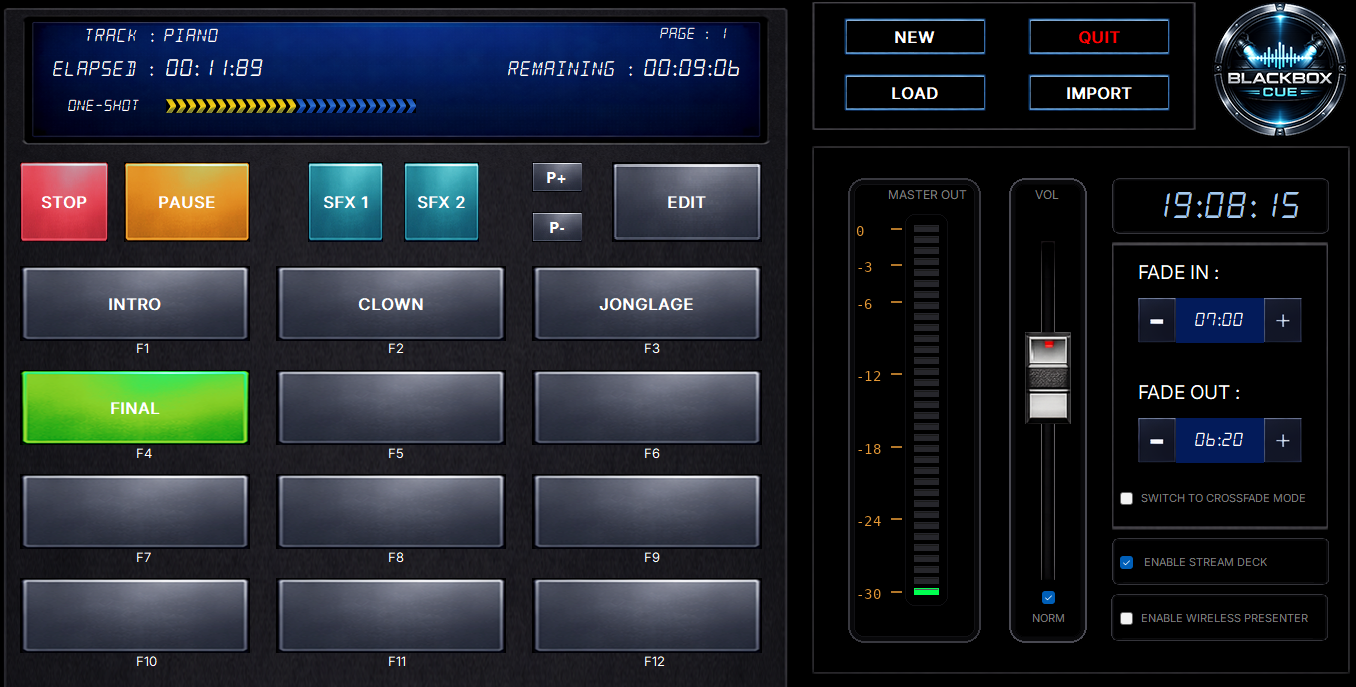
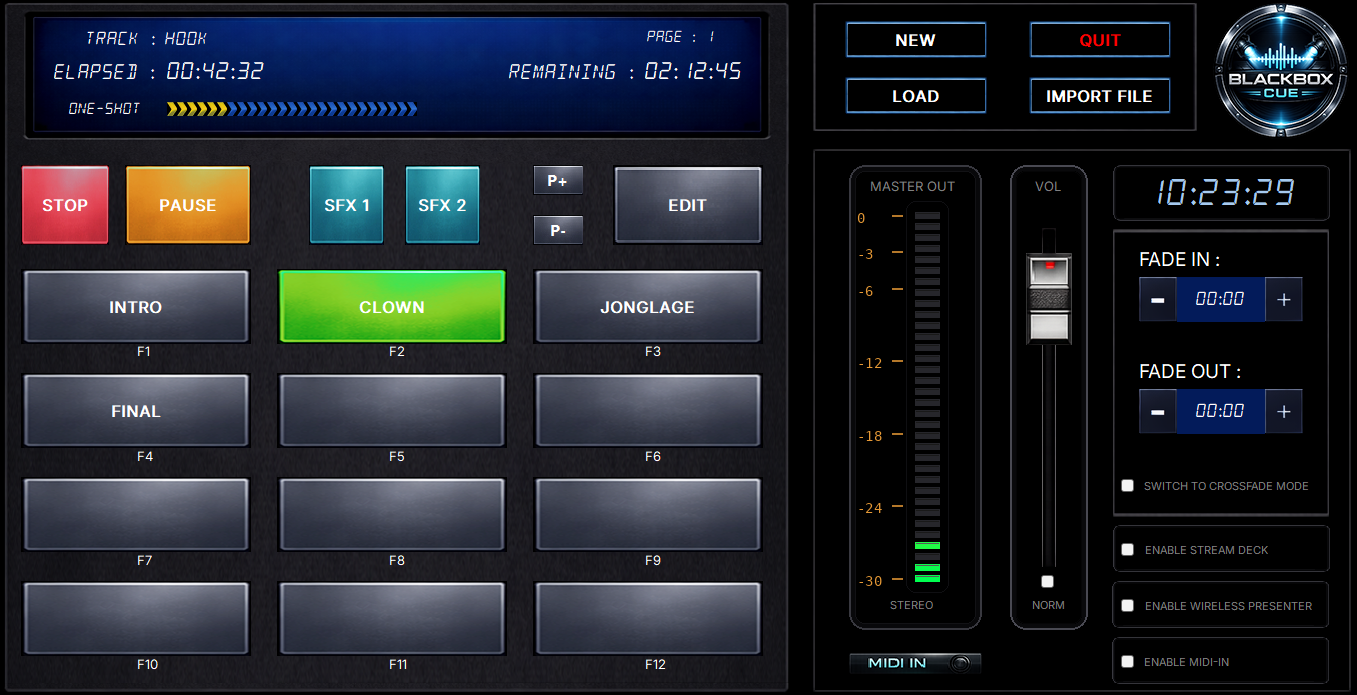
Updated docs

diff --git a/LISEZMOI.md b/LISEZMOI.md
@@ -30,9 +30,9 @@ BlackBox Cue vous donne les outils essentiels pour la diffusion live, sans la lo
 - **Temps restant** : toujours visible pendant la lecture, pour savoir précisément combien de temps il reste avant la prochaine cue.
 - **Fade-in et fade-out par piste** : durée réglable de 0 à 10 secondes pour des transitions en douceur.
 - **Comportement de fin par piste** : one-shot, boucle ou enchaînement vers le pad suivant -- configuré une fois, fiable à chaque représentation.
-- **Crossfade equal-power** entre les pistes pour des transitions fluides. En mode AUTO, le crossfade analyse votre musique et trouve automatiquement le meilleur moment pour enchaîner, en s'adaptant au tempo et à la structure de chaque morceau.
+- **Crossfade equal-power** entre les pistes pour des transitions fluides. En mode AUTO, le crossfade analyse votre musique et trouve automatiquement le meilleur moment pour enchaîner, en s'adaptant au tempo, à la tonalité et à la structure de chaque morceau.
 - **Sélection de la sortie audio** : choisissez quel périphérique audio utiliser, directement depuis l'interface principale.
-- **Préécoute** en mode édition : écoutez les premières secondes d'un morceau avant de le diffuser en live.
+- **Préécoute** en mode édition : écoutez les premières secondes d'un morceau sur une sortie audio séparée avant de le diffuser en live. Nécessite un ordinateur disposant d'au moins deux sorties audio indépendantes.
 - **Normalisation du volume** : équilibre automatiquement toutes vos pistes à un volume perçu homogène, même quand les fichiers proviennent de sources différentes.
 - **Forme d'onde** en mode édition : visualisez précisément où commence et se termine votre audio, et où se situent les points de trim.
 
@@ -87,17 +87,22 @@ Pour sauvegarder ou transférer un projet vers un autre ordinateur, il suffit de
 
 ## Importer des fichiers audio
 
-BlackBox Cue prend en charge les fichiers audio **WAV**, **MP3** et **AIFF**.
-
-Les fichiers AIFF sont automatiquement convertis au format WAV lors de l'importation.
+BlackBox Cue prend en charge de nombreux formats audio : **WAV**, **MP3**, **OGG**, **FLAC**, **AAC/M4A**, **MP4**, **AIFF**, **ALAC**, **WMA**, **Opus**, **CAF**, **AC-3**, **WavPack**, **MKA** (Matroska Audio), **AU** et **SND**.
 
 ### Importer un fichier
 
 1. Cliquez sur le bouton **Import**
 2. Sélectionnez un fichier audio sur votre ordinateur
 3. Donnez-lui un nom (ou conservez l'original)
-4. Pour les fichiers WAV et MP3, le fichier est copié dans le dossier `imports` de votre projet. La copie est sécurisée : l'intégrité du fichier de destination est vérifiée par rapport au fichier source pour garantir qu'aucune donnée n'a été perdue ou corrompue
-5. Pour les fichiers AIFF, le fichier est converti au format WAV et enregistré dans le dossier `imports` de votre projet
+4. Le fichier est copié dans le dossier `imports` de votre projet. La copie est sécurisée : l'intégrité du fichier de destination est vérifiée par rapport au fichier source pour garantir qu'aucune donnée n'a été perdue ou corrompue
+
+### Importer un dossier
+
+Faites un **clic droit** sur le bouton **Import** pour le basculer en mode **IMPORT DIR**. Dans ce mode, un clic sur le bouton permet de sélectionner un dossier entier au lieu d'un seul fichier. Tous les fichiers audio du dossier sélectionné (y compris les sous-dossiers) sont importés d'un coup.
+
+Un **préfixe** vous sera demandé. Chaque fichier importé sera nommé `PREFIXE-nomoriginal` dans votre projet. Cela permet d'organiser et d'identifier facilement les fichiers par source ou catégorie.
+
+Faites à nouveau un clic droit sur le bouton Import pour revenir en mode fichier unique (**IMPORT FILE**).
 
 ### Auto-Assign (importation en masse)
 
@@ -136,7 +141,7 @@ Cliquez simplement sur un pad pour le lancer. Le pad s'allume en vert pendant la
 
 ## Mode édition
 
-Pour configurer un pad, passez en **Mode édition** en cliquant sur le bouton **Edit**.
+Pour configurer un pad, passez en **Mode édition** en cliquant sur le bouton **Edit**. Le bouton Edit clignote tant que le mode édition est actif, comme rappel visuel.
 
 En mode édition, cliquer sur un pad le sélectionne pour l'édition (il s'allume en jaune). Vous pouvez alors :
 
@@ -210,13 +215,7 @@ Activez la case **Crossfade** pour enchaîner les pistes en douceur. Quand vous 
 
 #### Crossfade AUTO
 
-En mode Continue, vous pouvez régler la durée du crossfade sur **AUTO**. BlackBox Cue analyse alors chaque morceau lors de l'importation et détermine automatiquement le meilleur moment et la meilleure durée pour le crossfade :
-
-- Si le morceau comporte un **fade-out** (la musique s'éteint progressivement), le crossfade démarre au début de ce fade-out et sa durée correspond à la longueur réelle du fade
-- Si le morceau a une **fin calme** (un outro ou un passage plus doux), le crossfade démarre quand l'énergie baisse
-- Si aucun fade-out ni chute d'énergie n'est détecté, la durée du crossfade **s'adapte au tempo** : les morceaux rapides ont des crossfades plus courts, les morceaux lents des crossfades plus longs
-- Le démarrage du crossfade est **calé sur les mesures musicales**, pour que les transitions tombent sur des temps forts plutôt qu'à des moments arbitraires
-- Quand deux morceaux consécutifs ont un **tempo proche**, BlackBox Cue ajuste légèrement la vitesse du morceau entrant pour synchroniser les beats pendant la transition
+En mode Continue, vous pouvez régler la durée du crossfade sur **AUTO**. BlackBox Cue analyse alors chaque morceau lors de l'importation et détermine automatiquement le meilleur moment et la meilleure durée pour le crossfade.
 
 Vous n'avez pas besoin de régler manuellement la durée du crossfade — le logiciel s'en charge pour vous, en produisant des transitions naturelles et musicalement cohérentes entre des morceaux de styles et de tempos différents.
 
@@ -304,6 +303,42 @@ BlackBox Cue propose des raccourcis clavier pour un contrôle rapide de la lectu
 | Page Down | Page suivante |
 
 Ces raccourcis sont désactivés lors de la saisie dans un champ texte ou quand une boîte de dialogue est ouverte.
+
+---
+
+## Contrôle MIDI
+
+BlackBox Cue peut être piloté par n'importe quel contrôleur MIDI (clavier, contrôleur à pads, etc.).
+
+### Activer le MIDI
+
+1. Cochez la case **MIDI** dans l'interface principale
+2. Une fenêtre apparaît avec la liste des interfaces MIDI disponibles -- sélectionnez la vôtre
+3. Choisissez un **canal MIDI** (Omni pour écouter tous les canaux, ou un canal spécifique de 1 à 16)
+4. Cliquez sur **SELECT** pour activer le contrôle MIDI
+
+Décochez la case **MIDI** pour désactiver le contrôle MIDI.
+
+Un petit indicateur clignote à côté de la case à chaque réception d'un message MIDI sur le canal sélectionné.
+
+### Messages MIDI pris en charge
+
+| Message MIDI | Action |
+|---|---|
+| Note On 60 à 71 | Jouer le pad 1 à 12 de la page courante |
+| Note On 72 à 96 | Sélectionner la page 1 à 25 |
+| Note On inférieure à 60 | Arrêter toute lecture |
+| Program Change 1 à 25 | Sélectionner la page 1 à 25 |
+
+La sélection de page (par note ou Program Change) met également à jour la page courante pour les déclenchements de pads suivants.
+
+### Exemple de configuration
+
+Avec un clavier MIDI standard :
+- Utilisez les touches **Do4 à Si4** (notes 60-71) pour déclencher les pads 1-12
+- Utilisez les touches **Do5 à Do7** (notes 72-96) pour changer de page
+- Utilisez n'importe quelle touche **en dessous de Do4** pour arrêter la lecture
+- Envoyez un **Program Change** pour accéder directement à une page
 
 ---
 

diff --git a/README.md b/README.md
@@ -30,9 +30,9 @@ BlackBox Cue gives you the tools that matter for live playback, without the over
 - **Remaining time** is always visible during playback, so you know exactly how much time is left before the next cue.
 - **Per-track fade-in and fade-out** with adjustable duration (0 to 10 seconds) for smooth transitions.
 - **Per-track end behavior**: one-shot, loop, or continue to the next pad -- configured once, reliable every time.
-- **Equal-power crossfade** between tracks for seamless transitions. In AUTO mode, the crossfade analyzes your music and automatically finds the best moment to transition, adapting to the tempo and structure of each track.
+- **Equal-power crossfade** between tracks for seamless transitions. In AUTO mode, the crossfade analyzes your music and automatically finds the best moment to transition, adapting to the tempo, key, and structure of each track.
 - **Audio output selection** lets you choose which audio device to use, directly from the main interface.
-- **Listen preview** in Edit Mode lets you hear the first seconds of a track before going live.
+- **Listen preview** in Edit Mode lets you hear the first seconds of a track on a separate audio output before going live. Requires a computer with at least two independent audio outputs.
 - **Volume normalization** automatically balances all your tracks to a consistent perceived volume, even when audio files come from different sources.
 - **Waveform display** in Edit Mode lets you see exactly where your audio starts, ends, and where the trim points are.
 
@@ -87,17 +87,22 @@ To back up or transfer a project to another computer, simply copy the `.bbc` fil
 
 ## Importing Audio Files
 
-BlackBox Cue supports **WAV**, **MP3** and **AIFF** audio files.
-
-AIFF files are automatically converted to WAV format during import.
+BlackBox Cue supports a wide range of audio formats: **WAV**, **MP3**, **OGG**, **FLAC**, **AAC/M4A**, **MP4**, **AIFF**, **ALAC**, **WMA**, **Opus**, **CAF**, **AC-3**, **WavPack**, **MKA** (Matroska Audio), **AU**, and **SND**.
 
 ### Import a Single File
 
 1. Click the **Import** button
 2. Select an audio file from your computer
 3. Give it a name (or keep the original)
-4. For WAV and MP3 files, the file is copied into your project's `imports` folder. The copy is secured: the integrity of the destination file is verified against the source file to ensure no data was lost or corrupted
-5. For AIFF files, the file is converted to WAV format and saved into your project's `imports` folder. 
+4. The file is copied into your project's `imports` folder. The copy is secured: the integrity of the destination file is verified against the source file to ensure no data was lost or corrupted
+
+### Import a Folder
+
+Right-click the **Import** button to switch it to **IMPORT DIR** mode. In this mode, clicking the button lets you select a folder instead of a single file. All audio files from the selected folder (including subfolders) are imported at once.
+
+You will be asked to enter a **prefix**. Each imported file will be named `PREFIX-originalfilename` in your project. This helps you organize and identify files by source or category.
+
+Right-click the Import button again to switch back to single file mode (**IMPORT FILE**).
 
 ### Auto-Assign (Bulk Import)
 
@@ -136,7 +141,7 @@ Simply click a pad to play it. The pad lights up green while playing.
 
 ## Edit Mode
 
-To configure a pad, switch to **Edit Mode** by clicking the **Edit** button.
+To configure a pad, switch to **Edit Mode** by clicking the **Edit** button. The Edit button blinks while edit mode is active as a visual reminder.
 
 In Edit Mode, clicking a pad selects it for editing (it lights up yellow). You can then:
 
@@ -210,13 +215,7 @@ Enable the **Crossfade** checkbox to smoothly transition between tracks. When yo
 
 #### AUTO Crossfade
 
-In Continue mode, you can set the crossfade duration to **AUTO**. BlackBox Cue then analyzes each track during import and automatically determines the best moment and duration for the crossfade:
-
-- If the track has a **fade-out** (the music gradually fades to silence), the crossfade starts at the beginning of that fade-out and its duration matches the actual length of the fade
-- If the track has a **quiet ending** (an outro or breakdown), the crossfade starts when the energy drops
-- If no fade-out or energy drop is detected, the crossfade duration **adapts to the tempo**: faster tracks get shorter crossfades, slower tracks get longer ones
-- The crossfade start is **aligned to musical bars**, so transitions land on natural rhythmic boundaries rather than arbitrary moments
-- When two consecutive tracks have a **similar tempo**, BlackBox Cue slightly adjusts the speed of the incoming track to match the outgoing one, keeping the beats in sync during the transition
+In Continue mode, you can set the crossfade duration to **AUTO**. BlackBox Cue then analyzes each track during import and automatically determines the best moment and duration for the crossfade.
 
 This means you don't have to set a fixed crossfade duration — the software handles it for you, producing natural-sounding, musically coherent transitions between tracks of different styles and tempos.
 
@@ -304,6 +303,42 @@ BlackBox Cue supports keyboard shortcuts for quick playback control (active outs
 | Page Down | Next page |
 
 These shortcuts are disabled when typing in a text field or when a dialog is open.
+
+---
+
+## MIDI Control
+
+BlackBox Cue can be controlled via any MIDI controller (keyboard, pad controller, etc.).
+
+### Enabling MIDI
+
+1. Check the **MIDI** checkbox in the main interface
+2. A dialog appears listing available MIDI input devices -- select yours
+3. Choose a **MIDI channel** (Omni to listen on all channels, or a specific channel from 1 to 16)
+4. Click **SELECT** to activate MIDI control
+
+Uncheck the **MIDI** checkbox to deactivate MIDI control.
+
+A small indicator blinks next to the checkbox each time a MIDI message is received on the selected channel.
+
+### Supported MIDI Messages
+
+| MIDI Message | Action |
+|---|---|
+| Note On 60 to 71 | Play pad 1 to 12 on the current page |
+| Note On 72 to 96 | Select page 1 to 25 |
+| Note On below 60 | Stop all playback |
+| Program Change 1 to 25 | Select page 1 to 25 |
+
+Page selection (via note or Program Change) also updates the current page for subsequent pad triggers.
+
+### Example Setup
+
+With a standard MIDI keyboard:
+- Use the **C4 to B4** keys (notes 60-71) to trigger pads 1-12
+- Use the **C5 to C7** keys (notes 72-96) to switch pages
+- Use any key **below C4** to stop playback
+- Send a **Program Change** to jump directly to a page
 
 ---
 
